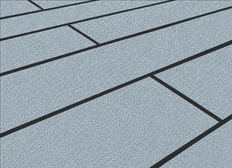
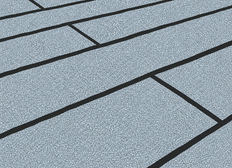
既存防水の絵：ゴムシート・既存なし（新築）を追加、露出アスファルト・押えコンクリートをフチ太めに差し替え
Claude-Session: https://claude.ai/code/session_01SgjtmfdbwY5jXVXTNgUKFA

diff --git a/index.html b/index.html
@@ -393,7 +393,7 @@ nav, nav#nav{overflow:visible; padding-top:2px;}
 
 <!-- 版の表示：スマホに届いている中身がどれかを、お互いに確認するための小さな印。
      不要になったらこの1行と #nnver の指定を消してください。 -->
-<div id="nnver">v2026-09-25 p</div>
+<div id="nnver">v2026-09-25 q</div>
 <script>
 /* ============ 実機の計測結果を表示（原因調査用・2026-07-28） ============
    数字の意味（単位はミリ秒）
@@ -744,7 +744,7 @@ nav, nav#nav{justify-content:center !important; padding-left:6px !important; pad
    古いものが出続けることがある。そこで ver.txt（数バイト）だけを
    毎回見に行き、公開版と違っていたら保存分を捨てて1回だけ読み直す。
    ★公開のたびに ver.txt と、下の NN_VER を同じ文字に更新すること。 */
-const NN_VER='2026-09-25p';
+const NN_VER='2026-09-25q';
 /* ============ 表示にかかった時間の記録（原因調査用・2026-07-28） ============
    スマホの実機でどこに時間がかかっているかを数字で出す。
    ・net  ＝ページを要求してから最初の返事が来るまで（通信の待ち）

diff --git a/sw.js b/sw.js
@@ -11,7 +11,7 @@
      ので、こちらの修正が確実に端末へ届く。
      ★ページを直したら、必ずこの番号を1つ上げること。
    ============================================================ */
-const CACHE = 'nn-cache-v586';
+const CACHE = 'nn-cache-v587';
 
 const ASSETS = [
   './compact_buttons.js',
@@ -132,7 +132,7 @@ const ASSETS = [
   './icons/kz_salc.png','./icons/kz_sdeck.png',
   './icons/kizon_as_roshutsu.png','./icons/kizon_osae.png','./icons/kizon_ure.png',
   './icons/kizon_enbi_setchaku.png','./icons/kizon_enbi_kikai.png',
-  './icons/kizon_fumei.png','./icons/dk_conc.png','./icons/dk_wood.png',
+  './icons/kizon_fumei.png','./icons/kizon_gomu.png','./icons/kizon_shinsetsu.png','./icons/dk_conc.png','./icons/dk_wood.png',
   './icons/zm_3d.png','./icons/zm_sekisan.png','./icons/zm_wari.png','./icons/zm_dansho.png',
   './icons/ago_off.png',
   './icons/zm_heimen.png','./icons/zm_kanabakari.png',

diff --git a/camera.html b/camera.html
@@ -1271,7 +1271,7 @@ nav, nav#nav{justify-content:center !important; padding-left:6px !important; pad
    古いものが出続けることがある。そこで ver.txt（数バイト）だけを
    毎回見に行き、公開版と違っていたら保存分を捨てて1回だけ読み直す。
    ★公開のたびに ver.txt と、下の NN_VER を同じ文字に更新すること。 */
-const NN_VER='2026-09-25p';
+const NN_VER='2026-09-25q';
 /* ============ 表示にかかった時間の記録（原因調査用・2026-07-28） ============
    スマホの実機でどこに時間がかかっているかを数字で出す。
    ・net  ＝ページを要求してから最初の返事が来るまで（通信の待ち）

diff --git a/genba_map_v36.html b/genba_map_v36.html
@@ -5019,7 +5019,7 @@ nav, nav#nav{justify-content:center !important; padding-left:6px !important; pad
    古いものが出続けることがある。そこで ver.txt（数バイト）だけを
    毎回見に行き、公開版と違っていたら保存分を捨てて1回だけ読み直す。
    ★公開のたびに ver.txt と、下の NN_VER を同じ文字に更新すること。 */
-const NN_VER='2026-09-25p';
+const NN_VER='2026-09-25q';
 /* ============ 表示にかかった時間の記録（原因調査用・2026-07-28） ============
    スマホの実機でどこに時間がかかっているかを数字で出す。
    ・net  ＝ページを要求してから最初の返事が来るまで（通信の待ち）

diff --git a/hacchu.html b/hacchu.html
@@ -1091,7 +1091,7 @@ nav, nav#nav{justify-content:center !important; padding-left:6px !important; pad
    古いものが出続けることがある。そこで ver.txt（数バイト）だけを
    毎回見に行き、公開版と違っていたら保存分を捨てて1回だけ読み直す。
    ★公開のたびに ver.txt と、下の NN_VER を同じ文字に更新すること。 */
-const NN_VER='2026-09-25p';
+const NN_VER='2026-09-25q';
 /* ============ 表示にかかった時間の記録（原因調査用・2026-07-28） ============
    スマホの実機でどこに時間がかかっているかを数字で出す。
    ・net  ＝ページを要求してから最初の返事が来るまで（通信の待ち）

diff --git a/kirokucho_demo.html b/kirokucho_demo.html
@@ -4832,7 +4832,7 @@ nav, nav#nav{justify-content:center !important; padding-left:6px !important; pad
    古いものが出続けることがある。そこで ver.txt（数バイト）だけを
    毎回見に行き、公開版と違っていたら保存分を捨てて1回だけ読み直す。
    ★公開のたびに ver.txt と、下の NN_VER を同じ文字に更新すること。 */
-const NN_VER='2026-09-25p';
+const NN_VER='2026-09-25q';
 /* ============ 表示にかかった時間の記録（原因調査用・2026-07-28） ============
    スマホの実機でどこに時間がかかっているかを数字で出す。
    ・net  ＝ページを要求してから最初の返事が来るまで（通信の待ち）

diff --git a/kokkosho.html b/kokkosho.html
@@ -2447,7 +2447,7 @@ nav, nav#nav{justify-content:center !important; padding-left:6px !important; pad
    古いものが出続けることがある。そこで ver.txt（数バイト）だけを
    毎回見に行き、公開版と違っていたら保存分を捨てて1回だけ読み直す。
    ★公開のたびに ver.txt と、下の NN_VER を同じ文字に更新すること。 */
-const NN_VER='2026-09-25p';
+const NN_VER='2026-09-25q';
 /* ============ 表示にかかった時間の記録（原因調査用・2026-07-28） ============
    スマホの実機でどこに時間がかかっているかを数字で出す。
    ・net  ＝ページを要求してから最初の返事が来るまで（通信の待ち）

diff --git a/library.html b/library.html
@@ -1170,7 +1170,7 @@ nav, nav#nav{justify-content:center !important; padding-left:6px !important; pad
    古いものが出続けることがある。そこで ver.txt（数バイト）だけを
    毎回見に行き、公開版と違っていたら保存分を捨てて1回だけ読み直す。
    ★公開のたびに ver.txt と、下の NN_VER を同じ文字に更新すること。 */
-const NN_VER='2026-09-25p';
+const NN_VER='2026-09-25q';
 /* ============ 表示にかかった時間の記録（原因調査用・2026-07-28） ============
    スマホの実機でどこに時間がかかっているかを数字で出す。
    ・net  ＝ページを要求してから最初の返事が来るまで（通信の待ち）

diff --git a/shiyo_toroku.html b/shiyo_toroku.html
@@ -1665,7 +1665,7 @@ nav, nav#nav{justify-content:center !important; padding-left:6px !important; pad
    古いものが出続けることがある。そこで ver.txt（数バイト）だけを
    毎回見に行き、公開版と違っていたら保存分を捨てて1回だけ読み直す。
    ★公開のたびに ver.txt と、下の NN_VER を同じ文字に更新すること。 */
-const NN_VER='2026-09-25p';
+const NN_VER='2026-09-25q';
 /* ============ 表示にかかった時間の記録（原因調査用・2026-07-28） ============
    スマホの実機でどこに時間がかかっているかを数字で出す。
    ・net  ＝ページを要求してから最初の返事が来るまで（通信の待ち）

diff --git a/yougo.html b/yougo.html
@@ -1406,7 +1406,7 @@ nav, nav#nav{justify-content:center !important; padding-left:6px !important; pad
    古いものが出続けることがある。そこで ver.txt（数バイト）だけを
    毎回見に行き、公開版と違っていたら保存分を捨てて1回だけ読み直す。
    ★公開のたびに ver.txt と、下の NN_VER を同じ文字に更新すること。 */
-const NN_VER='2026-09-25p';
+const NN_VER='2026-09-25q';
 /* ============ 表示にかかった時間の記録（原因調査用・2026-07-28） ============
    スマホの実機でどこに時間がかかっているかを数字で出す。
    ・net  ＝ページを要求してから最初の返事が来るまで（通信の待ち）

diff --git a/zairyo_toroku.html b/zairyo_toroku.html
@@ -1538,7 +1538,7 @@ nav, nav#nav{justify-content:center !important; padding-left:6px !important; pad
    古いものが出続けることがある。そこで ver.txt（数バイト）だけを
    毎回見に行き、公開版と違っていたら保存分を捨てて1回だけ読み直す。
    ★公開のたびに ver.txt と、下の NN_VER を同じ文字に更新すること。 */
-const NN_VER='2026-09-25p';
+const NN_VER='2026-09-25q';
 /* ============ 表示にかかった時間の記録（原因調査用・2026-07-28） ============
    スマホの実機でどこに時間がかかっているかを数字で出す。
    ・net  ＝ページを要求してから最初の返事が来るまで（通信の待ち）

diff --git a/zumen_sekisan.html b/zumen_sekisan.html
@@ -6252,7 +6252,7 @@ nav, nav#nav{justify-content:center !important; padding-left:6px !important; pad
    古いものが出続けることがある。そこで ver.txt（数バイト）だけを
    毎回見に行き、公開版と違っていたら保存分を捨てて1回だけ読み直す。
    ★公開のたびに ver.txt と、下の NN_VER を同じ文字に更新すること。 */
-const NN_VER='2026-09-25p';
+const NN_VER='2026-09-25q';
 /* ============ 表示にかかった時間の記録（原因調査用・2026-07-28） ============
    スマホの実機でどこに時間がかかっているかを数字で出す。
    ・net  ＝ページを要求してから最初の返事が来るまで（通信の待ち）
